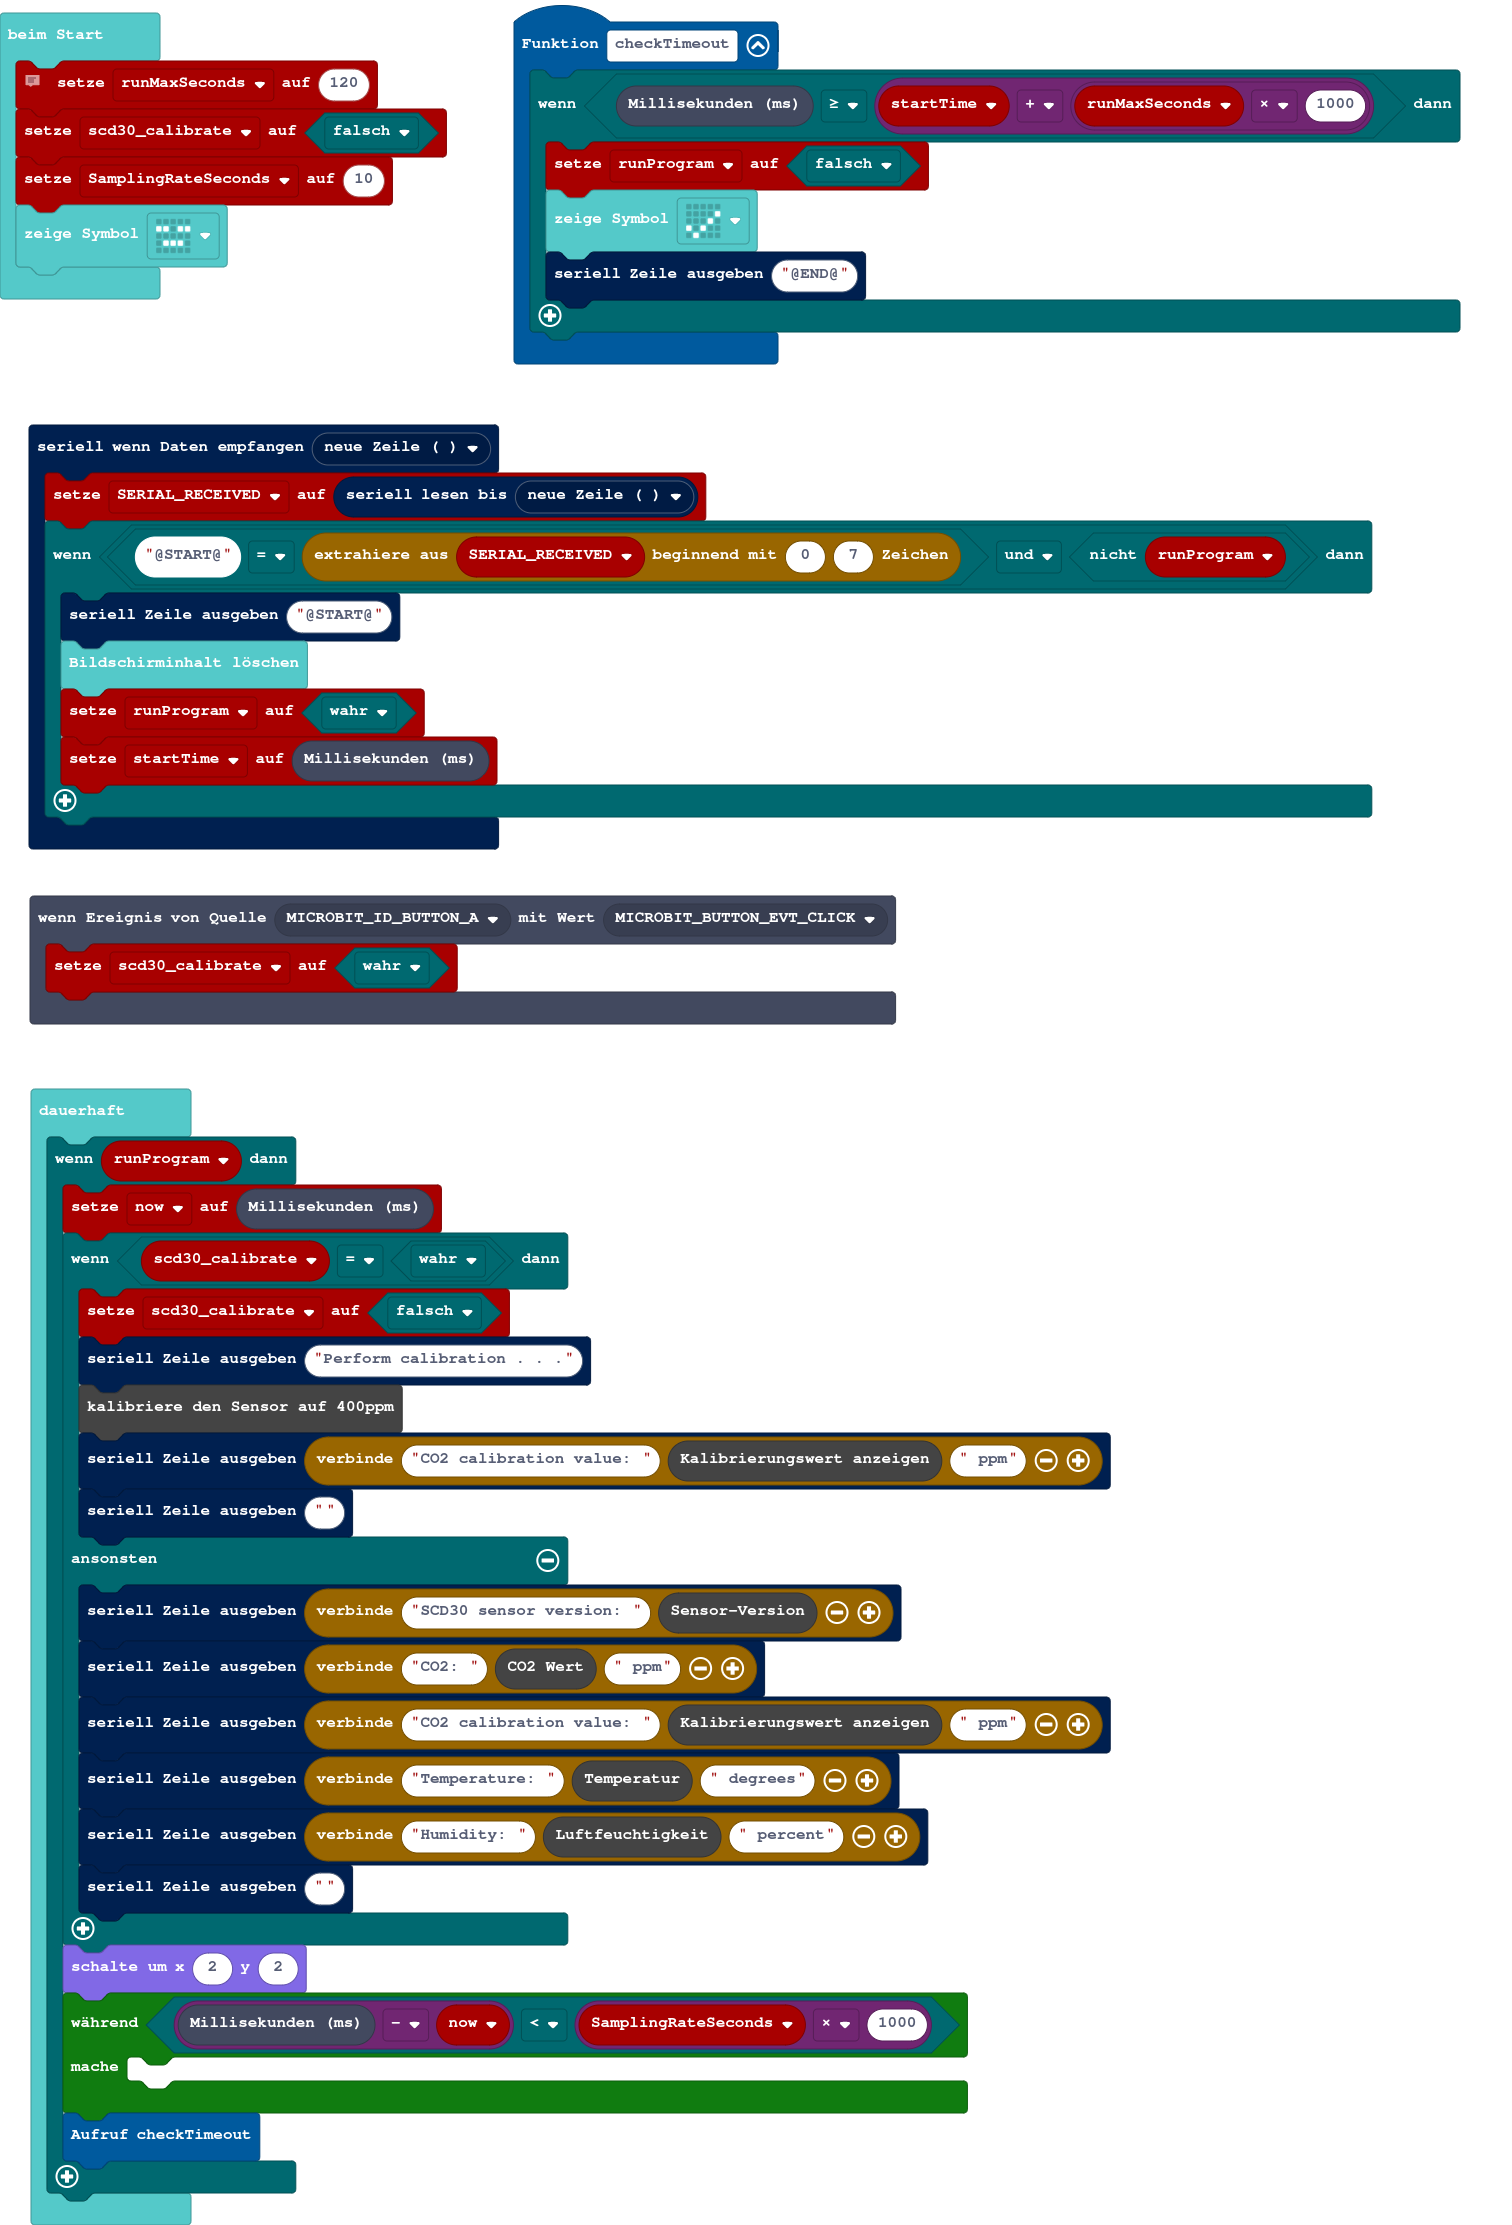
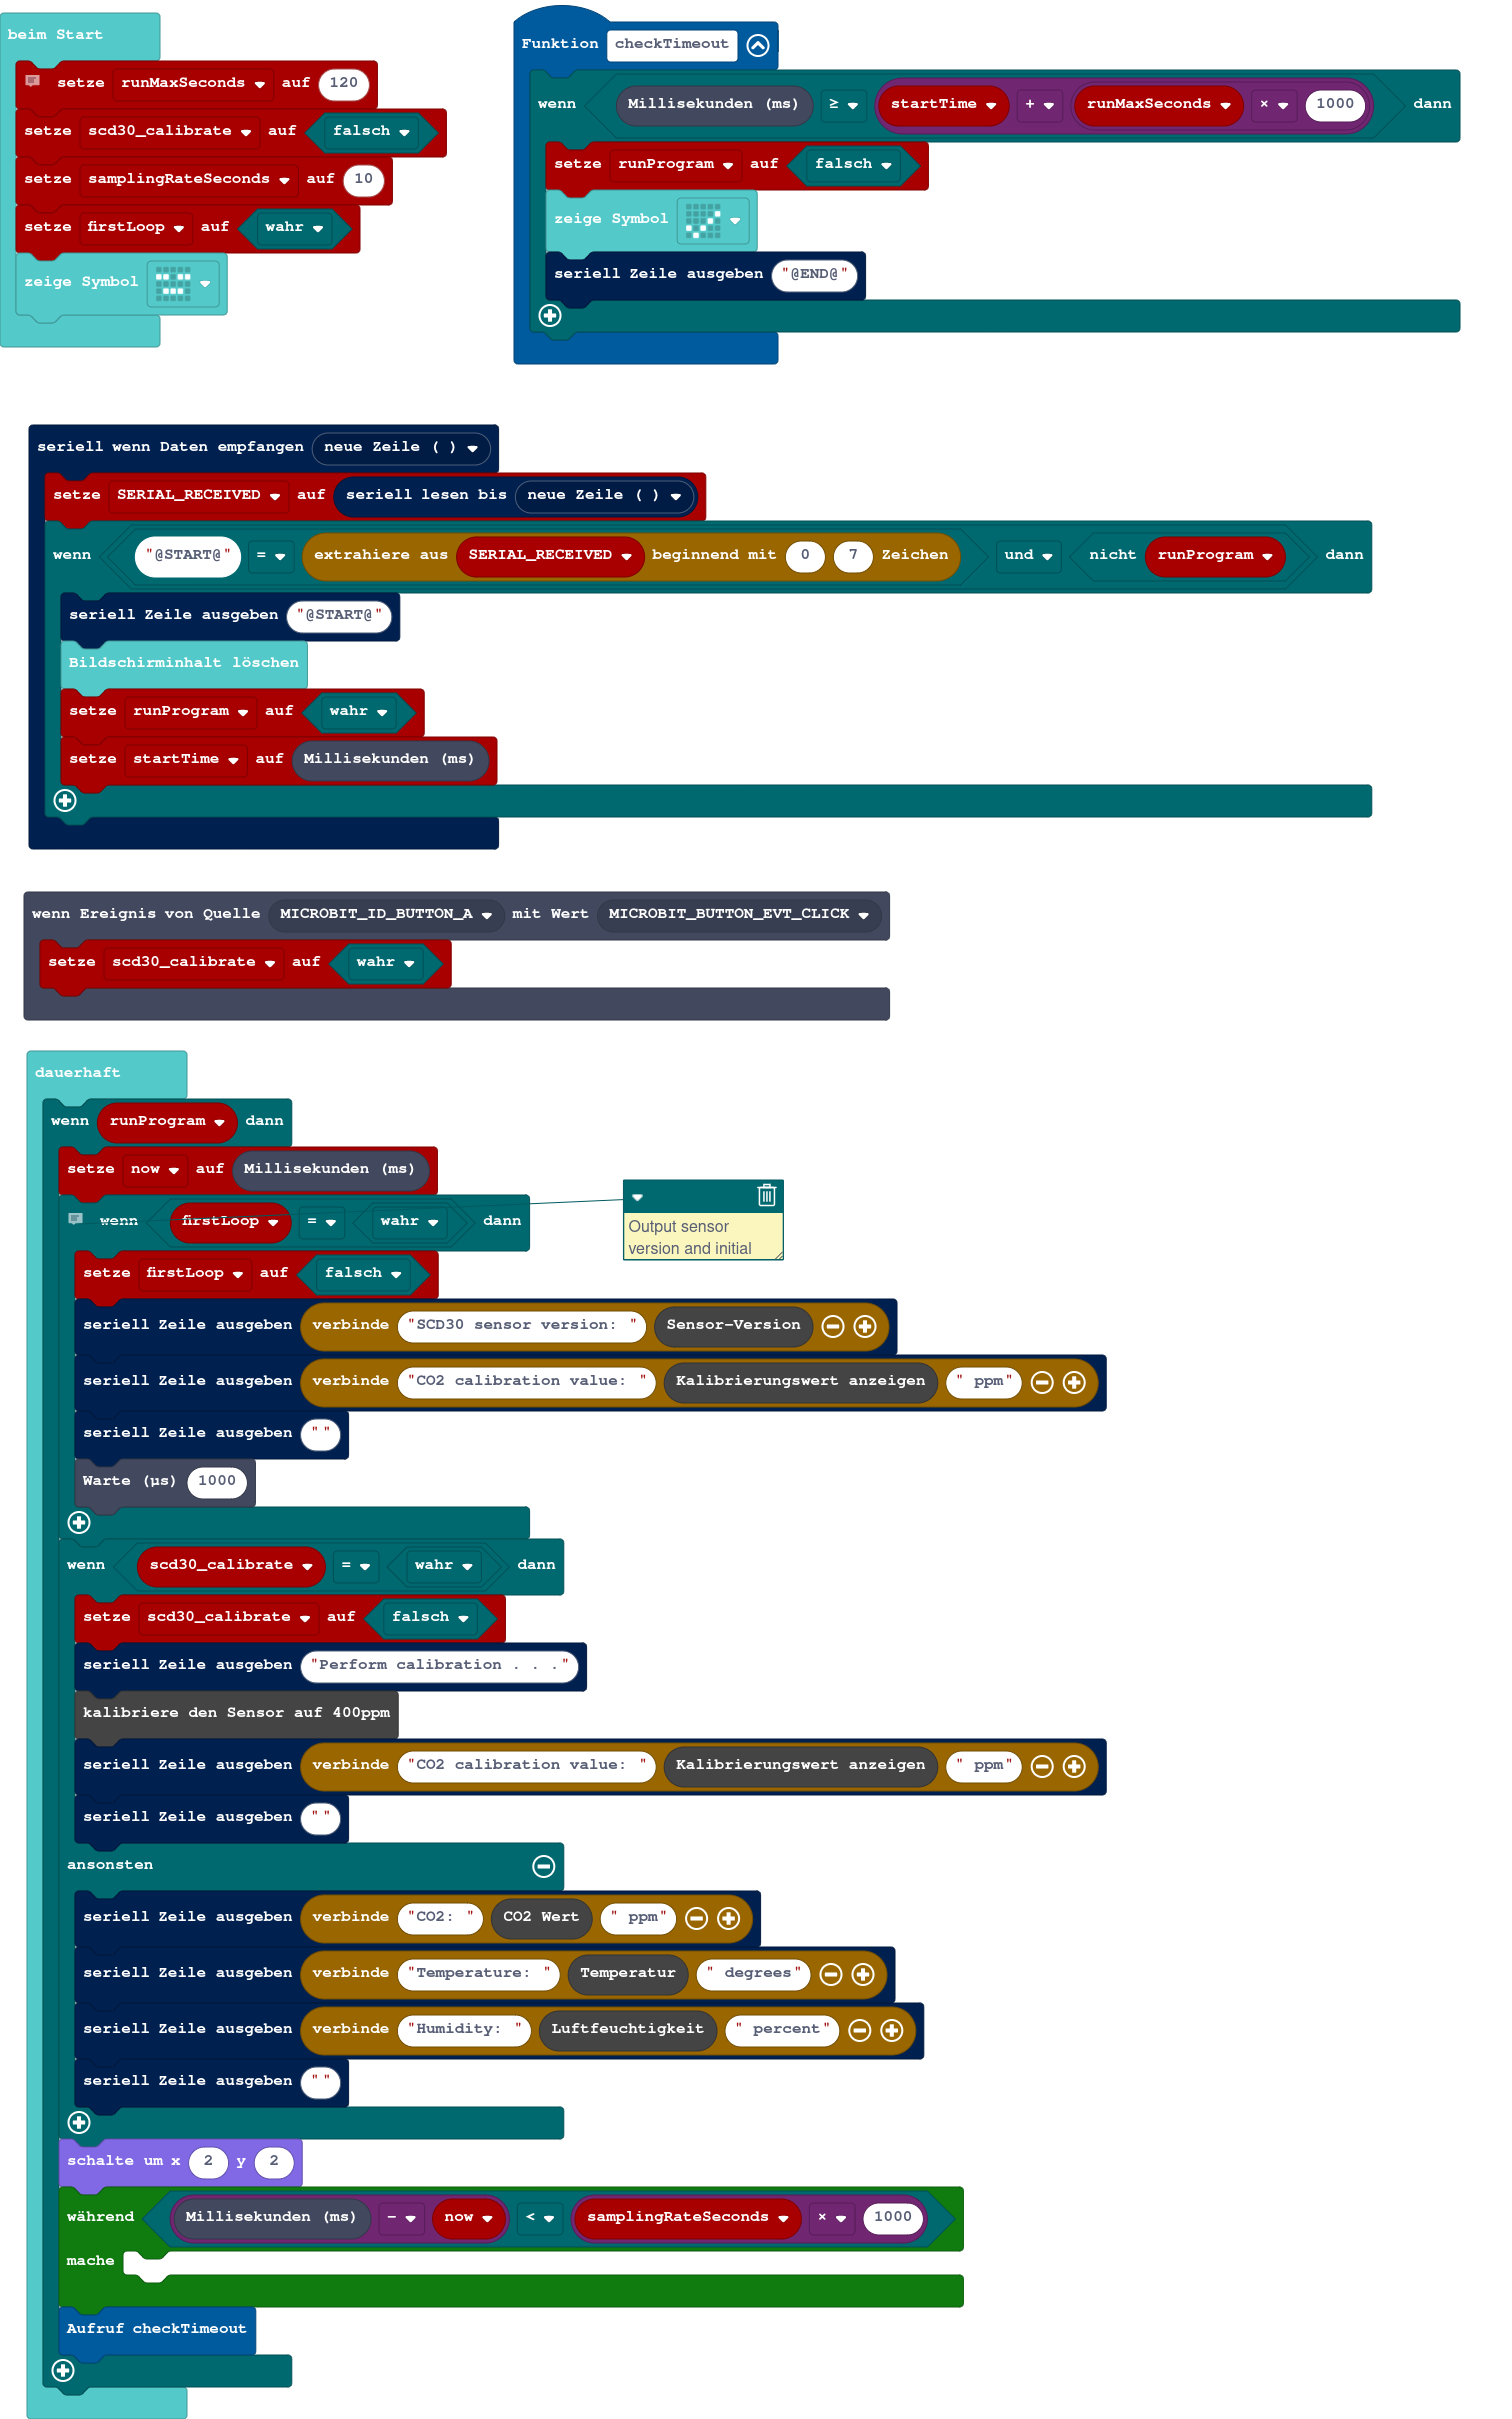
Output sensor version and initial calibration value only at the beginning (first loop)

diff --git a/main.ts b/main.ts
@@ -26,11 +26,20 @@ let runMaxSeconds = 0
 // runMaxSeconds is the maximum time in seconds the program is allowed to run.
 runMaxSeconds = 120
 scd30_calibrate = false
-let SamplingRateSeconds = 10
+let samplingRateSeconds = 10
+let firstLoop = true
 basic.showIcon(IconNames.Asleep)
 basic.forever(function () {
     if (runProgram) {
         now = control.millis()
+        // Output sensor version and initial calibration value only at the beginning (first loop)
+        if (firstLoop == true) {
+            firstLoop = false
+            serial.writeLine("SCD30 sensor version: " + SCD30.getVersion())
+            serial.writeLine("CO2 calibration value: " + SCD30.getCalibration() + " ppm")
+            serial.writeLine("")
+            control.waitMicros(1000)
+        }
         if (scd30_calibrate == true) {
             scd30_calibrate = false
             serial.writeLine("Perform calibration . . .")
@@ -38,15 +47,13 @@ basic.forever(function () {
             serial.writeLine("CO2 calibration value: " + SCD30.getCalibration() + " ppm")
             serial.writeLine("")
         } else {
-            serial.writeLine("SCD30 sensor version: " + SCD30.getVersion())
             serial.writeLine("CO2: " + SCD30.readCO2() + " ppm")
-            serial.writeLine("CO2 calibration value: " + SCD30.getCalibration() + " ppm")
             serial.writeLine("Temperature: " + SCD30.readTemperature() + " degrees")
             serial.writeLine("Humidity: " + SCD30.readHumidity() + " percent")
             serial.writeLine("")
         }
         led.toggle(2, 2)
-        while (control.millis() - now < SamplingRateSeconds * 1000) {
+        while (control.millis() - now < samplingRateSeconds * 1000) {
         	
         }
         checkTimeout()
